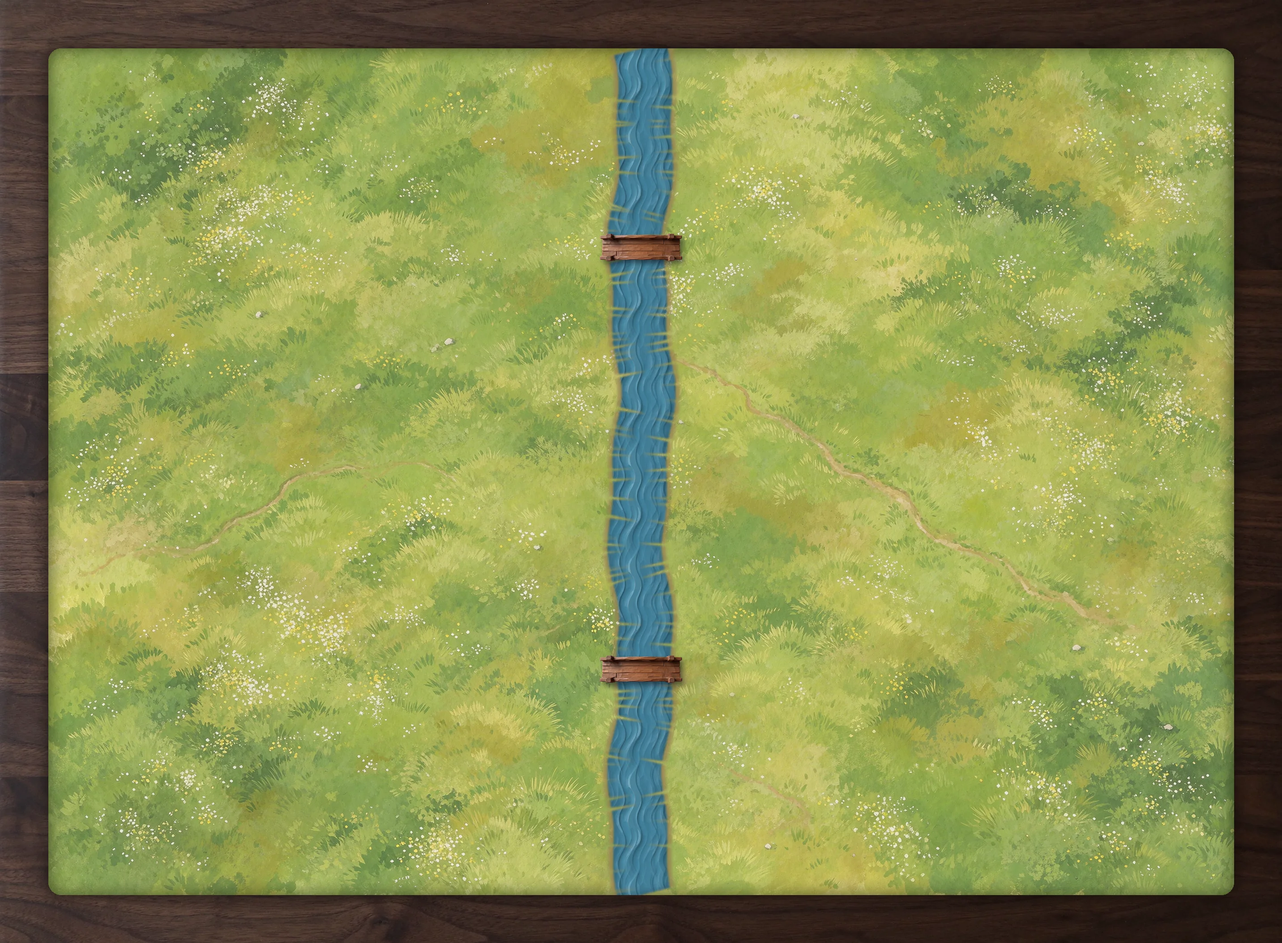
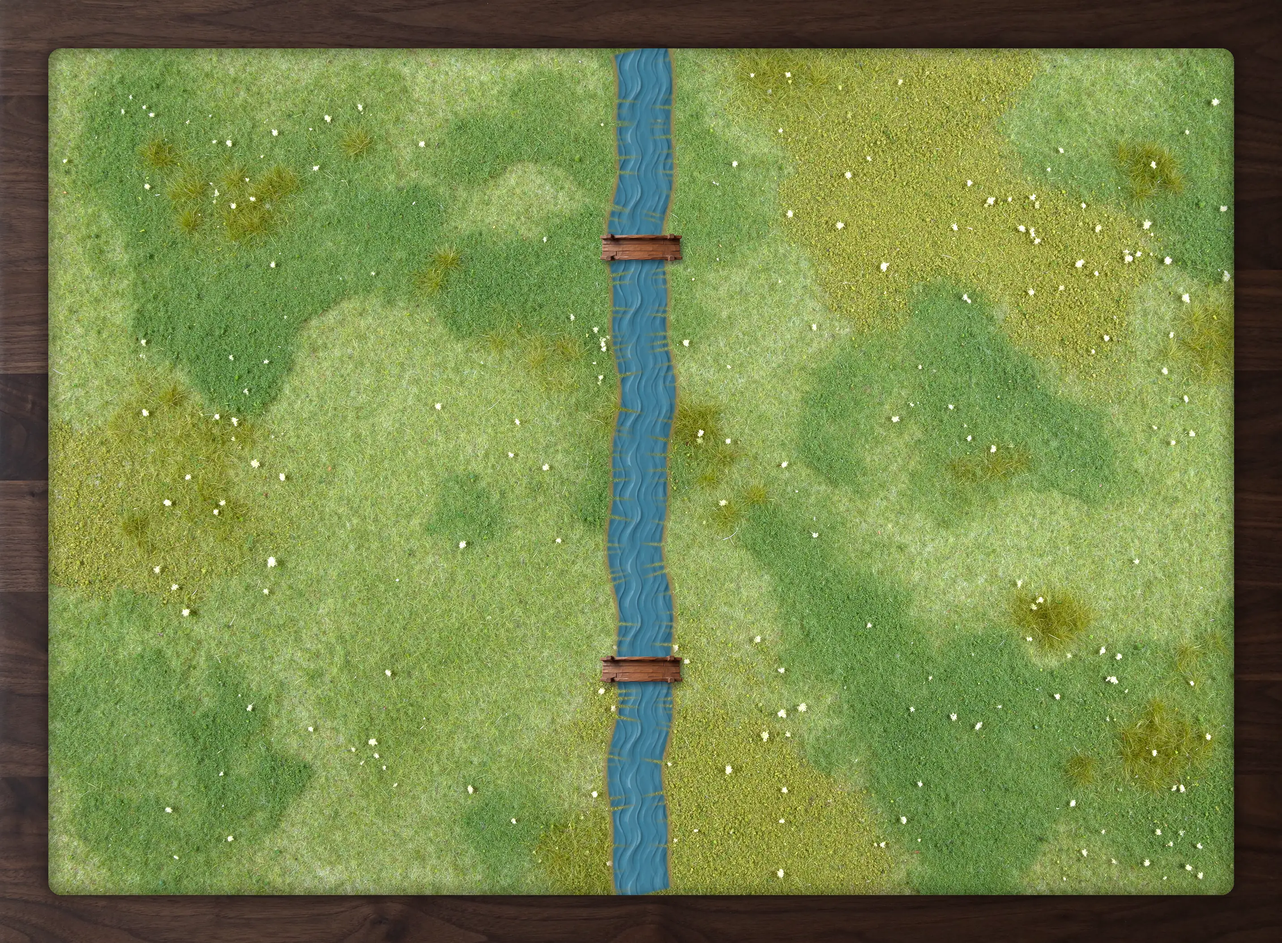
Felt gaming-mat grass; camera ignores moves made before the screen has a size

diff --git a/src/ui/board.ts b/src/ui/board.ts
@@ -118,7 +118,7 @@ function lens(v: View): Lens {
 // One picture of the whole board (grass, river, bridges, forest shade, the table around it), made by _art/map_build.py.
 // It covers the flat map plus GROUND_M units all round and is laid under the hexes with the camera's own projection.
 const GROUND_M = 70;
-export const GROUND_URL = `${import.meta.env.BASE_URL}map/ground.webp?v=7`;
+export const GROUND_URL = `${import.meta.env.BASE_URL}map/ground.webp?v=9`;
 /** The picture's size in map units (its CSS size before the camera's transform). */
 export const GROUND_SIZE: Pt = [W + 2 * GROUND_M, H + 2 * GROUND_M];
 /** Carved trees, each drawn from 8 directions (tree-<kind>-<direction>.webp); picture size in pixels, trunk foot at bottom centre. */

diff --git a/src/ui/main.ts b/src/ui/main.ts
@@ -1020,6 +1020,7 @@ function zoomAt(factor: number, X: number, Y: number) {
 
 /** Slide what the camera looks at across the map, keeping it over the board. */
 function moveTarget(dx: number, dy: number) {
+  if (!Number.isFinite(dx) || !Number.isFinite(dy)) return; // a screen with no size yet gives no sensible answer
   const [fw, fh] = mapSize(portrait);
   cam = {
     ...cam,
